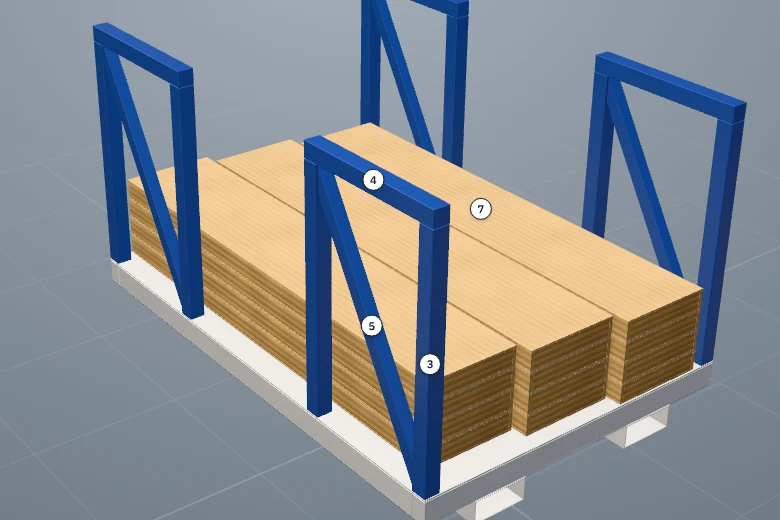
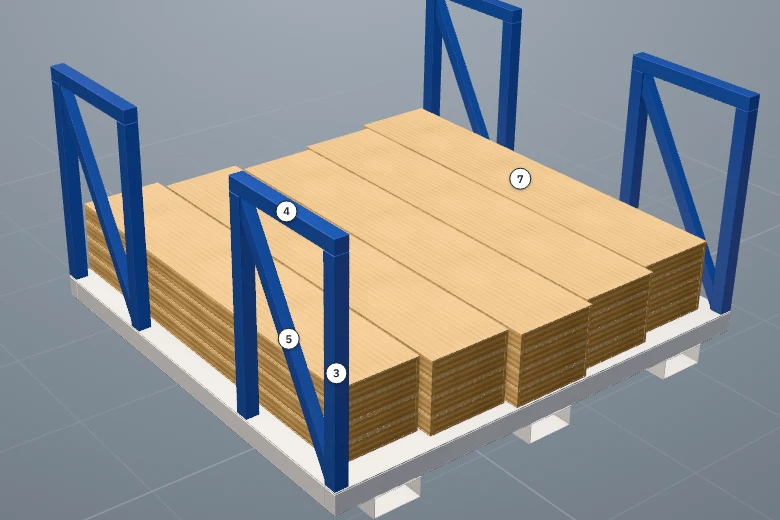
Rack de boîtes à carottes : cinq boîtes de large (donné par le client), trois passages de fourche
Claude-Session: https://claude.ai/code/session_015N4WssuUmdjikh97GVqZ3B

diff --git a/src/models/rack-core-box/index.js b/src/models/rack-core-box/index.js
@@ -5,19 +5,21 @@
 // Reconstitué d'après une photo du client, prise sous terre (P01) : la photo
 // ne montre qu'une portion du rack. Aucun plan, aucune cote publiée.
 //
-// Donné par le client : une boîte à carottes fait au moins 1,5 m de long.
-// C'est la seule cote sûre ; elle sert d'échelle à tout le reste.
+// Donné par le client : une boîte à carottes fait au moins 1,5 m de long
+// (seule cote sûre, elle sert d'échelle à tout le reste) ; il entre cinq boîtes
+// de large dans le rack ; les côtés ne sont pas continus.
 //
 // Relevé sur la photo, à cette échelle (à ± 10 % environ) : les boîtes sont
 // couchées en travers, bouts vers le côté des fourches, en colonnes côte à
-// côte entre les arceaux ; trois colonnes de quatre boîtes sont visibles,
+// côte entre les arceaux ; les colonnes visibles ont quatre boîtes et sont
 // décalées d'une colonne à l'autre ; plate-forme pâle, arceaux bleus d'environ
-// 0,5 m de large, deux passages de fourche sous la plate-forme.
+// 0,5 m de large, passages de fourche sous la plate-forme (deux sont visibles,
+// sous la première et la troisième colonne).
 //
 // Supposé : la largeur et la hauteur d'une boîte (boîte de bois à quatre
 // rangées), les sections des tubes, l'épaisseur de la tôle, le sens de la
-// diagonale des arceaux que la photo ne montre pas en entier, le nombre total
-// de colonnes (le bout droit du rack est caché).
+// diagonale des arceaux que la photo ne montre pas en entier, le troisième
+// passage de fourche (sous la cinquième colonne, par symétrie).
 //
 // Repère : X dans la largeur du rack (d'un côté à l'autre), Y vers le haut
 // (sol à 0), Z le long des boîtes, +Z du côté des bouts de boîtes visibles sur
@@ -40,8 +42,8 @@ export const BOITE = {
   separation: 9,
   couvercle: 6,
 };
-/** Empilement relevé sur la photo : colonnes côte à côte, boîtes par colonne, décalage en Z de chaque colonne. */
-export const PILE = { colonnes: 3, etages: 4, jeu: 10, decalage: [-45, 0, 45] };
+/** Empilement : cinq colonnes côte à côte (donné par le client) ; boîtes par colonne et décalage en Z de chaque colonne relevés sur la photo (colonnes cachées : supposé). */
+export const PILE = { colonnes: 5, etages: 4, jeu: 10, decalage: [-45, 0, 45, 15, -25] };
 
 /** Tube carré des arceaux et tube de la diagonale (supposés). */
 export const TUBE = { cote: 2 * IN, diagonale: 1.5 * IN };
@@ -52,8 +54,13 @@ export const BASE = {
   cadre: { haut: 3 * IN, large: 2 * IN },
   tole: 3 / 16 * IN,
 };
-/** Passages de fourche sous la plate-forme, le long des boîtes (relevés sur la photo, section supposée). */
-export const FOURCHE = { large: 7 * IN, haut: 3 * IN, paroi: 3 / 16 * IN, entraxe: 560 };
+/**
+ * Passages de fourche sous la plate-forme, le long des boîtes : un sous une colonne sur deux
+ * (relevé sur la photo pour les deux premiers ; le troisième et la section sont supposés).
+ */
+export const FOURCHE = { large: 7 * IN, haut: 3 * IN, paroi: 3 / 16 * IN, entraxe: 2 * (BOITE.large + PILE.jeu), nombre: 3 };
+/** Abscisses des passages de fourche (mm), rack centré. */
+export const passages = () => Array.from({ length: FOURCHE.nombre }, (_, i) => (i - (FOURCHE.nombre - 1) / 2) * FOURCHE.entraxe);
 /** Arceaux : hauteur au-dessus de la tôle et largeur hors tout, le long des boîtes (relevées sur la photo) ; deux par côté. */
 export const CADRE = { haut: 800, large: 500, parCote: 2 };
 
@@ -181,7 +188,7 @@ export function P01(api) {
   const yBase = FOURCHE.haut, yTole = dessusTole(), W = largeurBase() / 2, D = BASE.profond / 2, c = TUBE.cote / 2;
 
   put('1', S.at(plateForme(S, PLATE), [0, yBase * MM, 0]), [0, 0, 0]);
-  for (const s of [-1, 1]) put('2', S.at(passage(S, PLATE), [(s * FOURCHE.entraxe / 2) * MM, 0, 0]), [0, -0.25, 0]);
+  for (const x of passages()) put('2', S.at(passage(S, PLATE), [x * MM, 0, 0]), [0, -0.25, 0]);
   // Deux arceaux par côté : un au bord avant, un au bord arrière de la plate-forme.
   const L = CADRE.large / 2;
   for (const s of [-1, 1]) {

diff --git a/README.md b/README.md
@@ -947,15 +947,15 @@ pièces (numéro, quantité, page du manuel).
   cotes du modèle (`src/models/boulon-ancrage-time/index.js`).
 
 - **Rack de boîtes à carottes (core box)** (`rack-core-box`) : plate-forme
-  d'acier à deux passages de fourche, bordée de chaque côté par deux arceaux
+  d'acier à trois passages de fourche, bordée de chaque côté par deux arceaux
   de tube bleu séparés (chacun : deux montants, une traverse haute, une
   diagonale ; côtés non continus, précision du client), où l'on empile les
   boîtes à carottes pleines. Reconstitué d'après une photo du client prise
   sous terre (P01), qui ne montre qu'une portion du rack ; aucun plan. Échelle :
   la boîte à carottes de 1,5 m (donnée par le client, minimum). Relevé sur la
-  photo à cette échelle : l'encombrement (1,08 × 1,60 × 0,96 m), la hauteur
-  et la largeur des arceaux, l'entraxe des passages de fourche, les 3 colonnes de 4 boîtes
-  décalées. Supposé : largeur (300 mm) et hauteur (66 mm fermée) de la boîte,
+  photo à cette échelle : la profondeur et la hauteur (1,60 et 0,96 m), la hauteur
+  et la largeur des arceaux, les deux passages de fourche visibles, les 4 boîtes de haut. Donné par
+  le client : 5 boîtes de large (20 boîtes, rack de 1,70 m de large). Supposé : largeur (300 mm) et hauteur (66 mm fermée) de la boîte,
   sections des tubes, tôle, sens de la diagonale des autres arceaux. La fiche et
   la page des cotes (P02) sont écrites par `tools/rack_core_box_fiche.mjs` à
   partir des cotes du modèle (`src/models/rack-core-box/index.js`).
